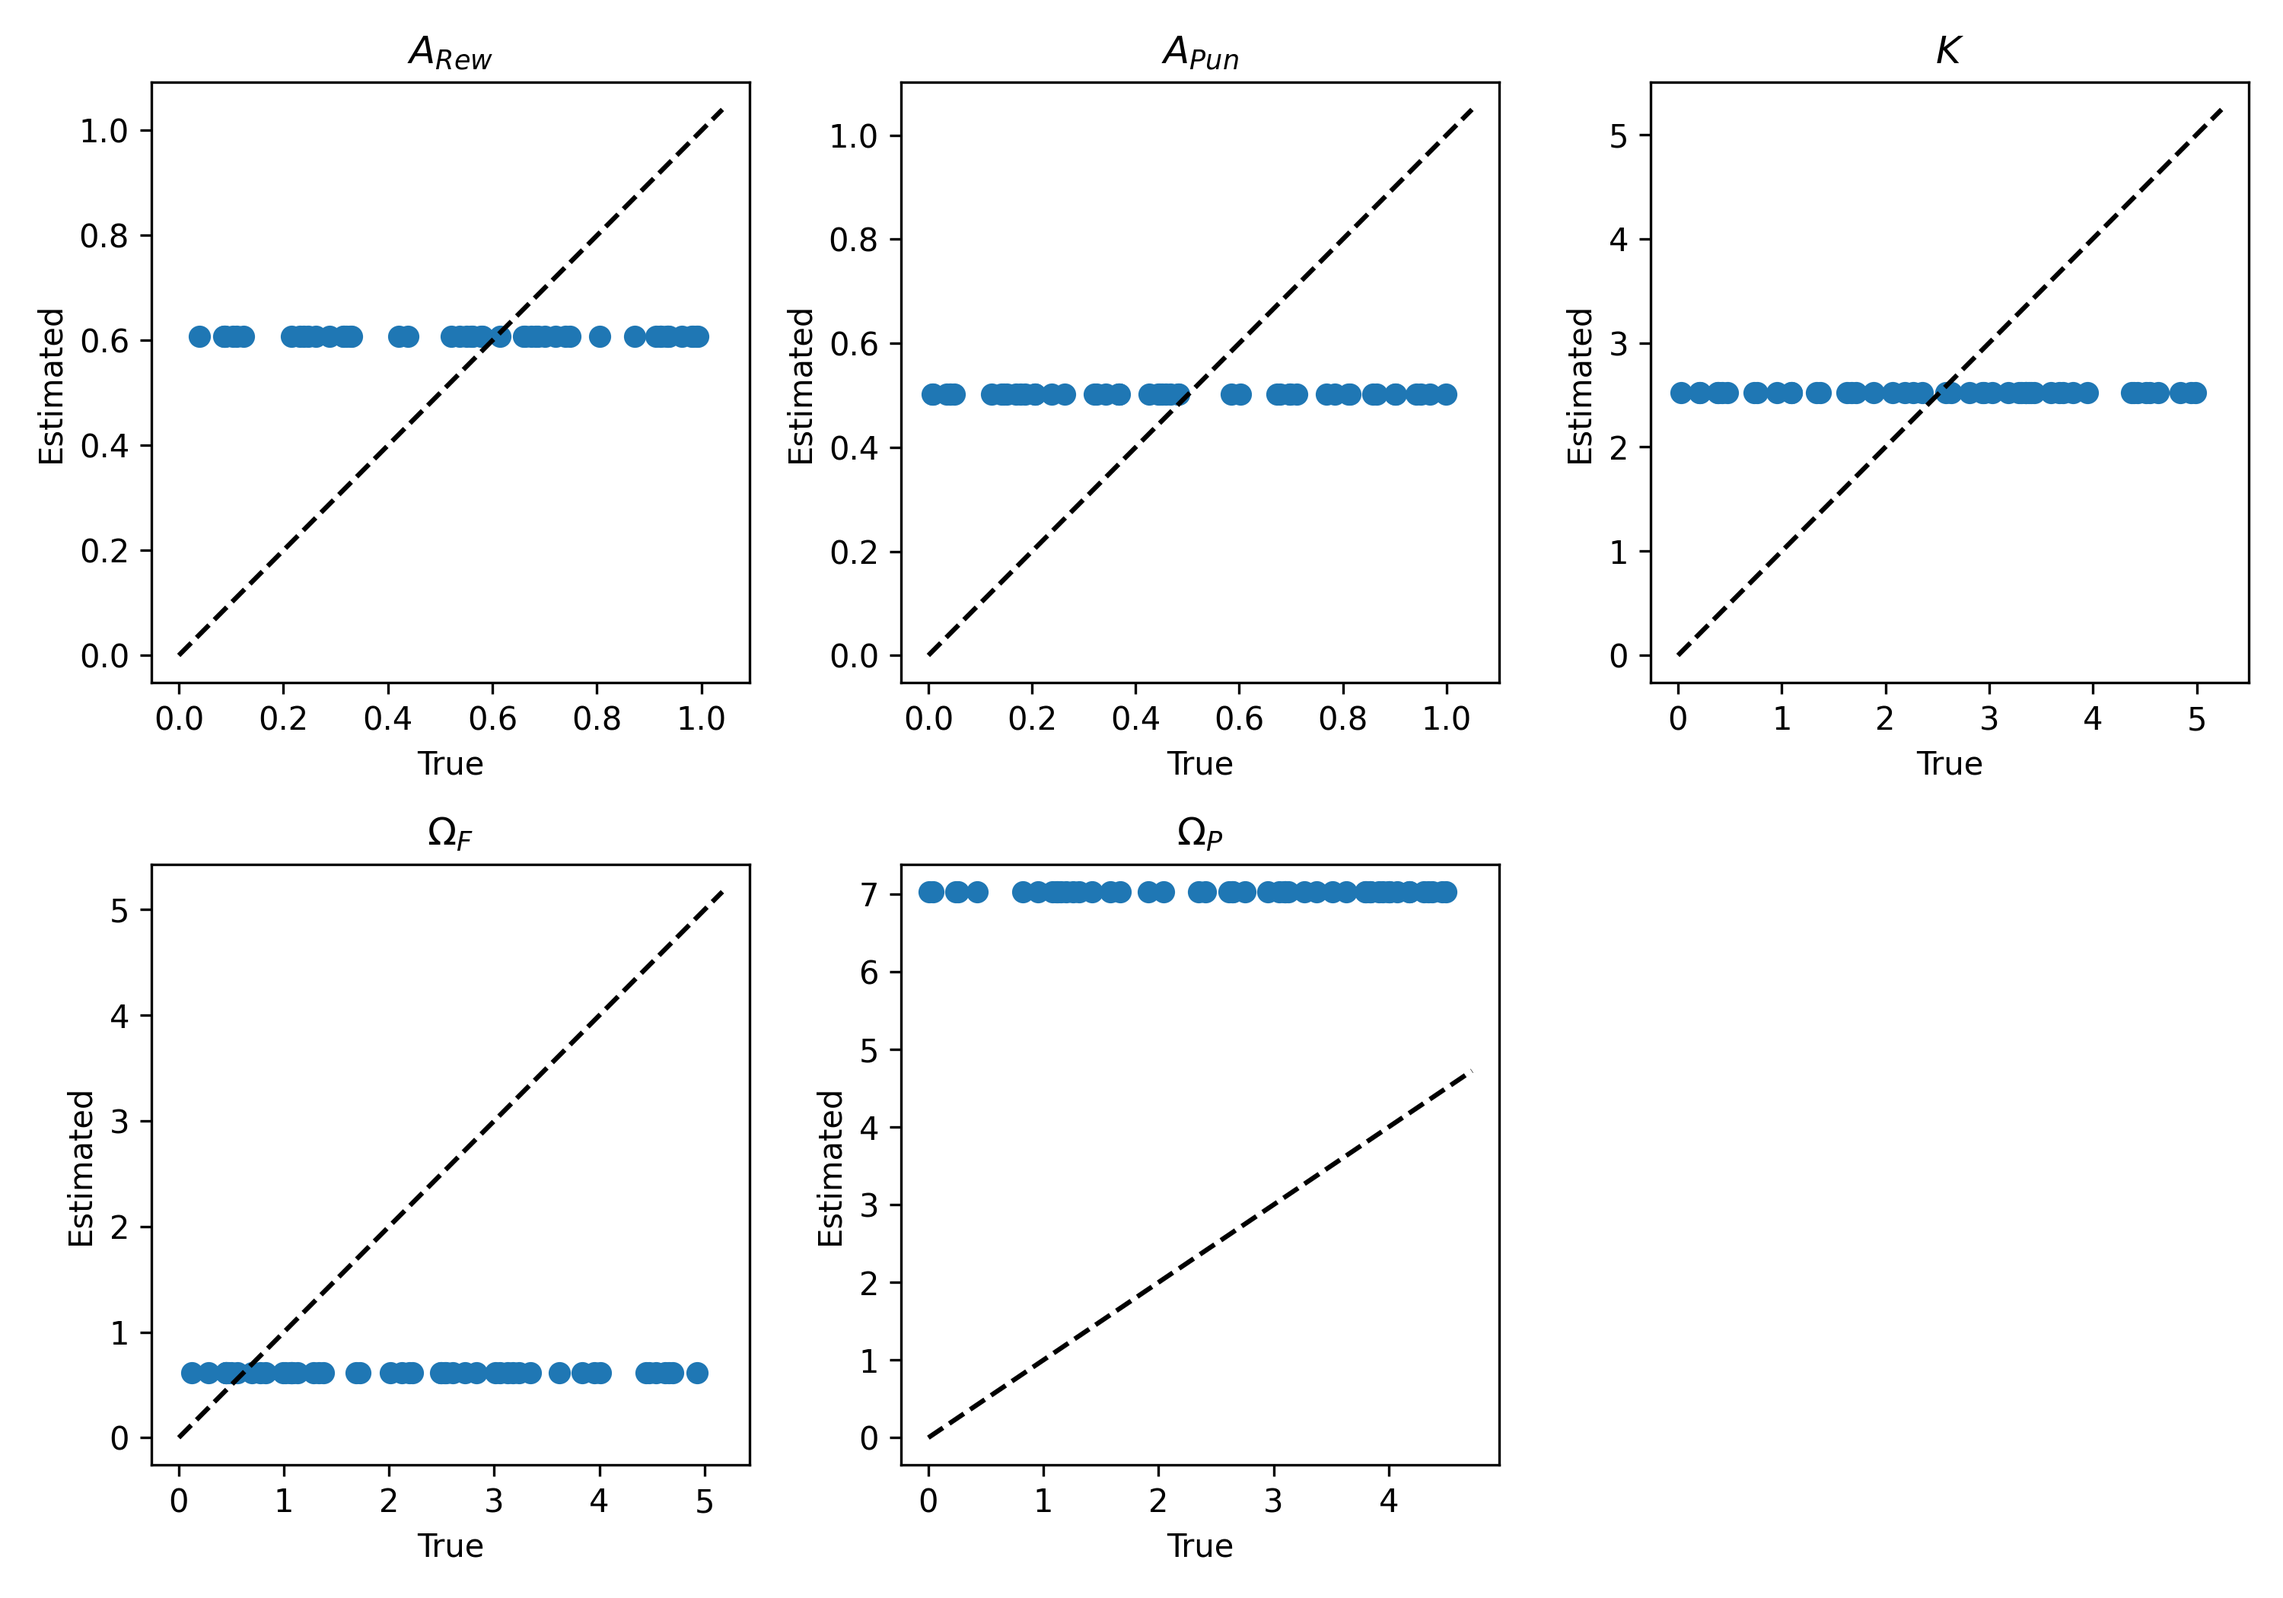
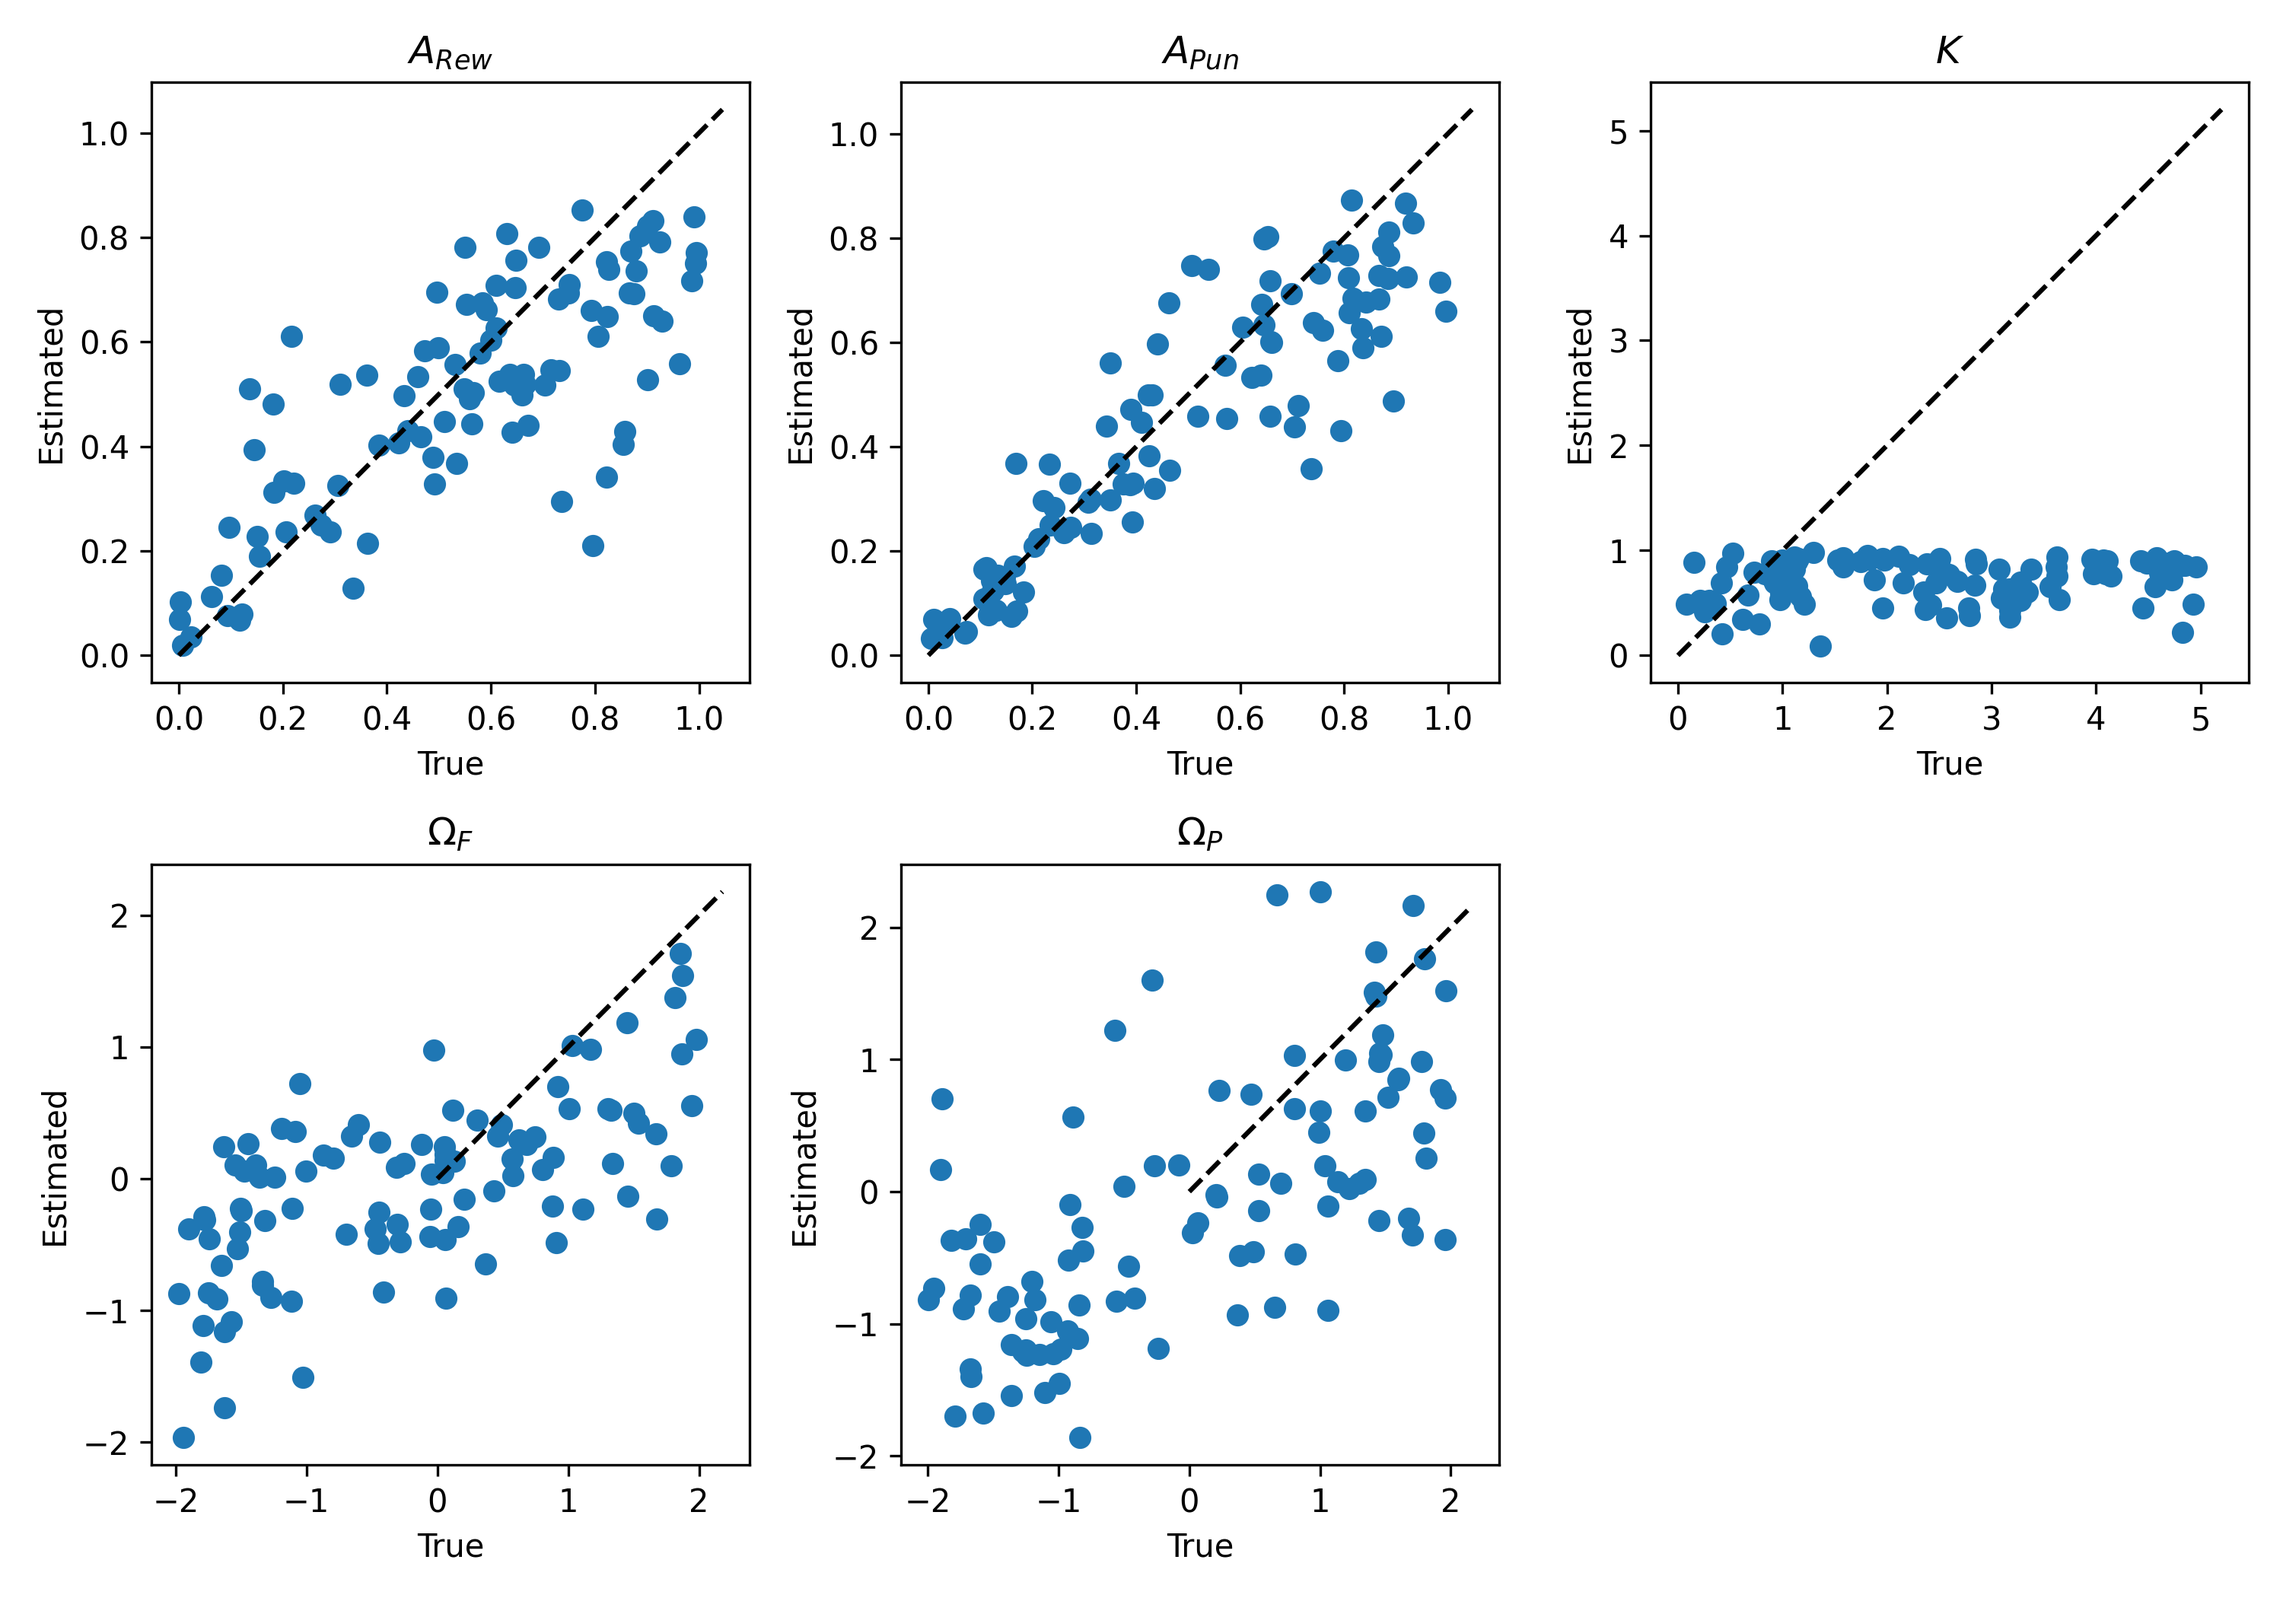
plot subject level recovery

diff --git a/recovery/plot_subj_lvl.py b/recovery/plot_subj_lvl.py
@@ -22,27 +22,14 @@ if __name__ == "__main__":
         fig_path.mkdir()
 
     # load the simulated data
-    n_subs = 50
+    n_subs = 100
     sim_path = path / "simulated" / "subj_lvl" / f"ORL_{n_subs}_sub.csv"
     sim_data = pd.read_csv(sim_path)
 
     # load the recovered data
-    rec_path = path / "fit" / "subj_lvl" / "param_rec_subj_lvl.csv"
+    rec_path = path / "fit" / "subj_lvl" 
     
-    # only load the first 5 rows
-    rec_data = pd.read_csv(rec_path, nrows = 5)
-    print(len(rec_data[rec_data.columns[0]]))
-
-    # save the dataframe    
-    rec_data.to_csv(path / "test.csv", index = False)
-
-
-    print(rec_data["omega_p.1"].mean())
-    print(rec_data["omega_p.2"].mean())
-
-    print(rec_data["omega_p.3000"].mean())
-
-
+   
 
     # get the true and recovered parameters
     param_dict = {
@@ -60,30 +47,25 @@ if __name__ == "__main__":
 
 
     }
-
+    true_choices = []
+    pred_choices = []
     for sub in range(1, n_subs + 1):
         tmp_sim = sim_data[sim_data["sub"] == sub]
+        rec_data = pd.read_csv(rec_path / f"param_rec_subj_{sub}.csv")
 
         for param in ["a_rew", "a_pun", "omega_p", "omega_f", "K"]:
             param_dict[f"{param}_t"].append(tmp_sim[param].unique()[0])
+            recovered_param = rec_data[f"{param}"]
+            param_dict[f"{param}_r"].append(np.mean(recovered_param))
 
-            recovered_param = rec_data[f"{param}.{sub * 100 - 100+1}"]
-            print(sub * 100 - 100 + 1)
+        # append choices for descriptive adequacy plot
+        true_choices.append(tmp_sim["choice"].to_list())
 
-            if param in ["omega_p", "omega_f"]:
-                param_dict[f"{param}_r"].append(np.mean(recovered_param))
-            
-            elif param in ["a_rew", "a_pun"]:
-                # REMEBER TO CHANGE THIS
-                param_dict[f"{param}_r"].append(np.mean(recovered_param))
-        
-            elif param in ["K"]:
-                #REMEBER TO CHANGE THIS
-                param_dict[f"{param}_r"].append(np.mean(recovered_param))
+        pred_choices_sub = []
+        for t in range(1, 101):
+            pred_choices_sub.append(mode(rec_data[f"y_pred.{t}"]))
 
-        
-
-
+        pred_choices.append(pred_choices_sub)
 
 
     # plot the recovery of the parameters
@@ -95,128 +77,9 @@ if __name__ == "__main__":
     )
 
 
-
-
-
-
-
-
-
-"""
-
-    # load the simulated data
-    filename = "ORL_simulated_10_groups_20_sub.csv"
-    data = pd.read_csv(path / "simulated" / filename)
-
-    # load the estimated data
-    filename_est = f"param_rec_{filename}"
-    data_estimated = pd.read_csv(path / "fit" / filename_est)
-
-    # get the true parameters
-    
-    unique_groups = data["group"].unique()
-
-    mu_a_rew_t = []
-    mu_a_pun_t = []
-    mu_K_t = []
-    mu_omega_f_t = []
-    mu_omega_p_t = []
-
-    mu_a_rew_e = []
-    mu_a_pun_e = []
-    mu_K_e = []
-    mu_omega_f_e = []
-    mu_omega_p_e = []
-
-
-    for group in unique_groups:
-        data_tmp = data[data["group"] == group]
-        mu_a_rew_t.append(data_tmp["mu_a_rew"].unique()[0])
-        mu_a_pun_t.append(data_tmp["mu_a_pun"].unique()[0])
-        mu_K_t.append(data_tmp["mu_K"].unique()[0])
-        mu_omega_f_t.append(data_tmp["mu_omega_f"].unique()[0])
-        mu_omega_p_t.append(data_tmp["mu_omega_p"].unique()[0])
-
-        data_tmp = data_estimated[data_estimated["group"] == group]
-        mu_a_rew_e.append(data_tmp["mu_a_rew"].mean())
-        mu_a_pun_e.append(data_tmp["mu_a_pun"].mean())
-        mu_K_e.append(data_tmp["mu_K"].mean())
-        mu_omega_f_e.append(data_tmp["mu_omega_f"].mean())
-        mu_omega_p_e.append(data_tmp["mu_omega_p"].mean())
-
-
-    # plot the recovery of the parameters
-    plot_recoveries(
-        trues = [mu_a_rew_t, mu_a_pun_t, mu_K_t, mu_omega_f_t, mu_omega_p_t],
-        estimateds = [mu_a_rew_e, mu_a_pun_e, mu_K_e, mu_omega_f_e, mu_omega_p_e],
-        parameter_names=["mu_a_pun", "mu_a_rew", "mu_K", "mu_omega_f", "mu_omega_p"],
-        #parameter_names = [r"$\mu A_{rew}$", r"$\mu A_{pun}$", r"$\mu K$", r"$\mu \omega_f$", r"$\mu \omega_p$"],
-        savepath = fig_path / "hierachical_parameter_recovery_ORL.png"
-    )
-
-
-
-
-    # individual parameters
-    # get the true parameters
-    a_rew_t = []
-    a_pun_t = []
-    K_t = []
-    omega_f_t = []
-    omega_p_t = []
-    
-    a_rew_e = []
-    a_pun_e = []
-    K_e = []
-    omega_f_e = []
-    omega_p_e = []
-
-    choices = []
-    pred_choices = []
-    groups = []
-
-    for group in unique_groups:
-        data_tmp = data[data["group"] == group]
-        data_tmp_est = data_estimated[data_estimated["group"] == group]
-
-        # unique subject numbers
-        unique_subjects = data_tmp["sub"].unique()
-
-        for sub in unique_subjects:
-            groups.append(group)
-            data_tmp_sub = data_tmp[data_tmp["sub"] == sub]
-            a_rew_t.append(data_tmp_sub["sub_a_rew"].iloc[0])
-            a_pun_t.append(data_tmp_sub["sub_a_pun"].iloc[0])
-            K_t.append(data_tmp_sub["sub_K"].iloc[0])
-            omega_f_t.append(data_tmp_sub["sub_omega_f"].iloc[0])
-            omega_p_t.append(data_tmp_sub["sub_omega_p"].iloc[0])
-            choices.append(data_tmp_sub["choice"].tolist())
-            
-            a_rew_e.append(data_tmp_est[f"a_rew.{sub}"].mean())
-            a_pun_e.append(data_tmp_est[f"a_pun.{sub}"].mean())
-            K_e.append(data_tmp_est[f"K.{sub}"].mean())
-            omega_f_e.append(data_tmp_est[f"omega_f.{sub}"].mean())
-            omega_p_e.append(data_tmp_est[f"omega_p.{sub}"].mean())
-            pred_choices.append([int(mode(data_tmp_est[f"y_pred.{sub}.{trial}"])) for trial in range(1, 100+1)])
-    
-    # plot the recovery of the parameters
-    plot_recoveries(
-        trues = [a_rew_t, a_pun_t, K_t, omega_f_t, omega_p_t],
-        estimateds = [a_rew_e, a_pun_e, K_e, omega_f_e, omega_p_e],
-        parameter_names = [r"$A_{rew}$", r"$A_{pun}$", r"$K$", r"$\omega_f$", r"$\omega_p$"],
-        #parameter_names = ["a_pun", "a_rew", "K", "omega_f", "omega_p"],
-        savepath = fig_path / "hierachical_parameter_recovery_ORL_individual.png"
-    )
-
-
-    # plot the descriptive adequacy
     plot_descriptive_adequacy(
-        choices, 
-        pred_choices, 
-        groups = groups, 
+        choices = true_choices,
+        pred_choices = pred_choices,
         chance_level = chance_level(100, p = 0.25)*100,
-        savepath = fig_path / "descriptive_adequacy_ORL.png"
-        )
-    
-
-"""
+        savepath =fig_path / "subj_lvl_descriptive_ORL.png"
+    )
